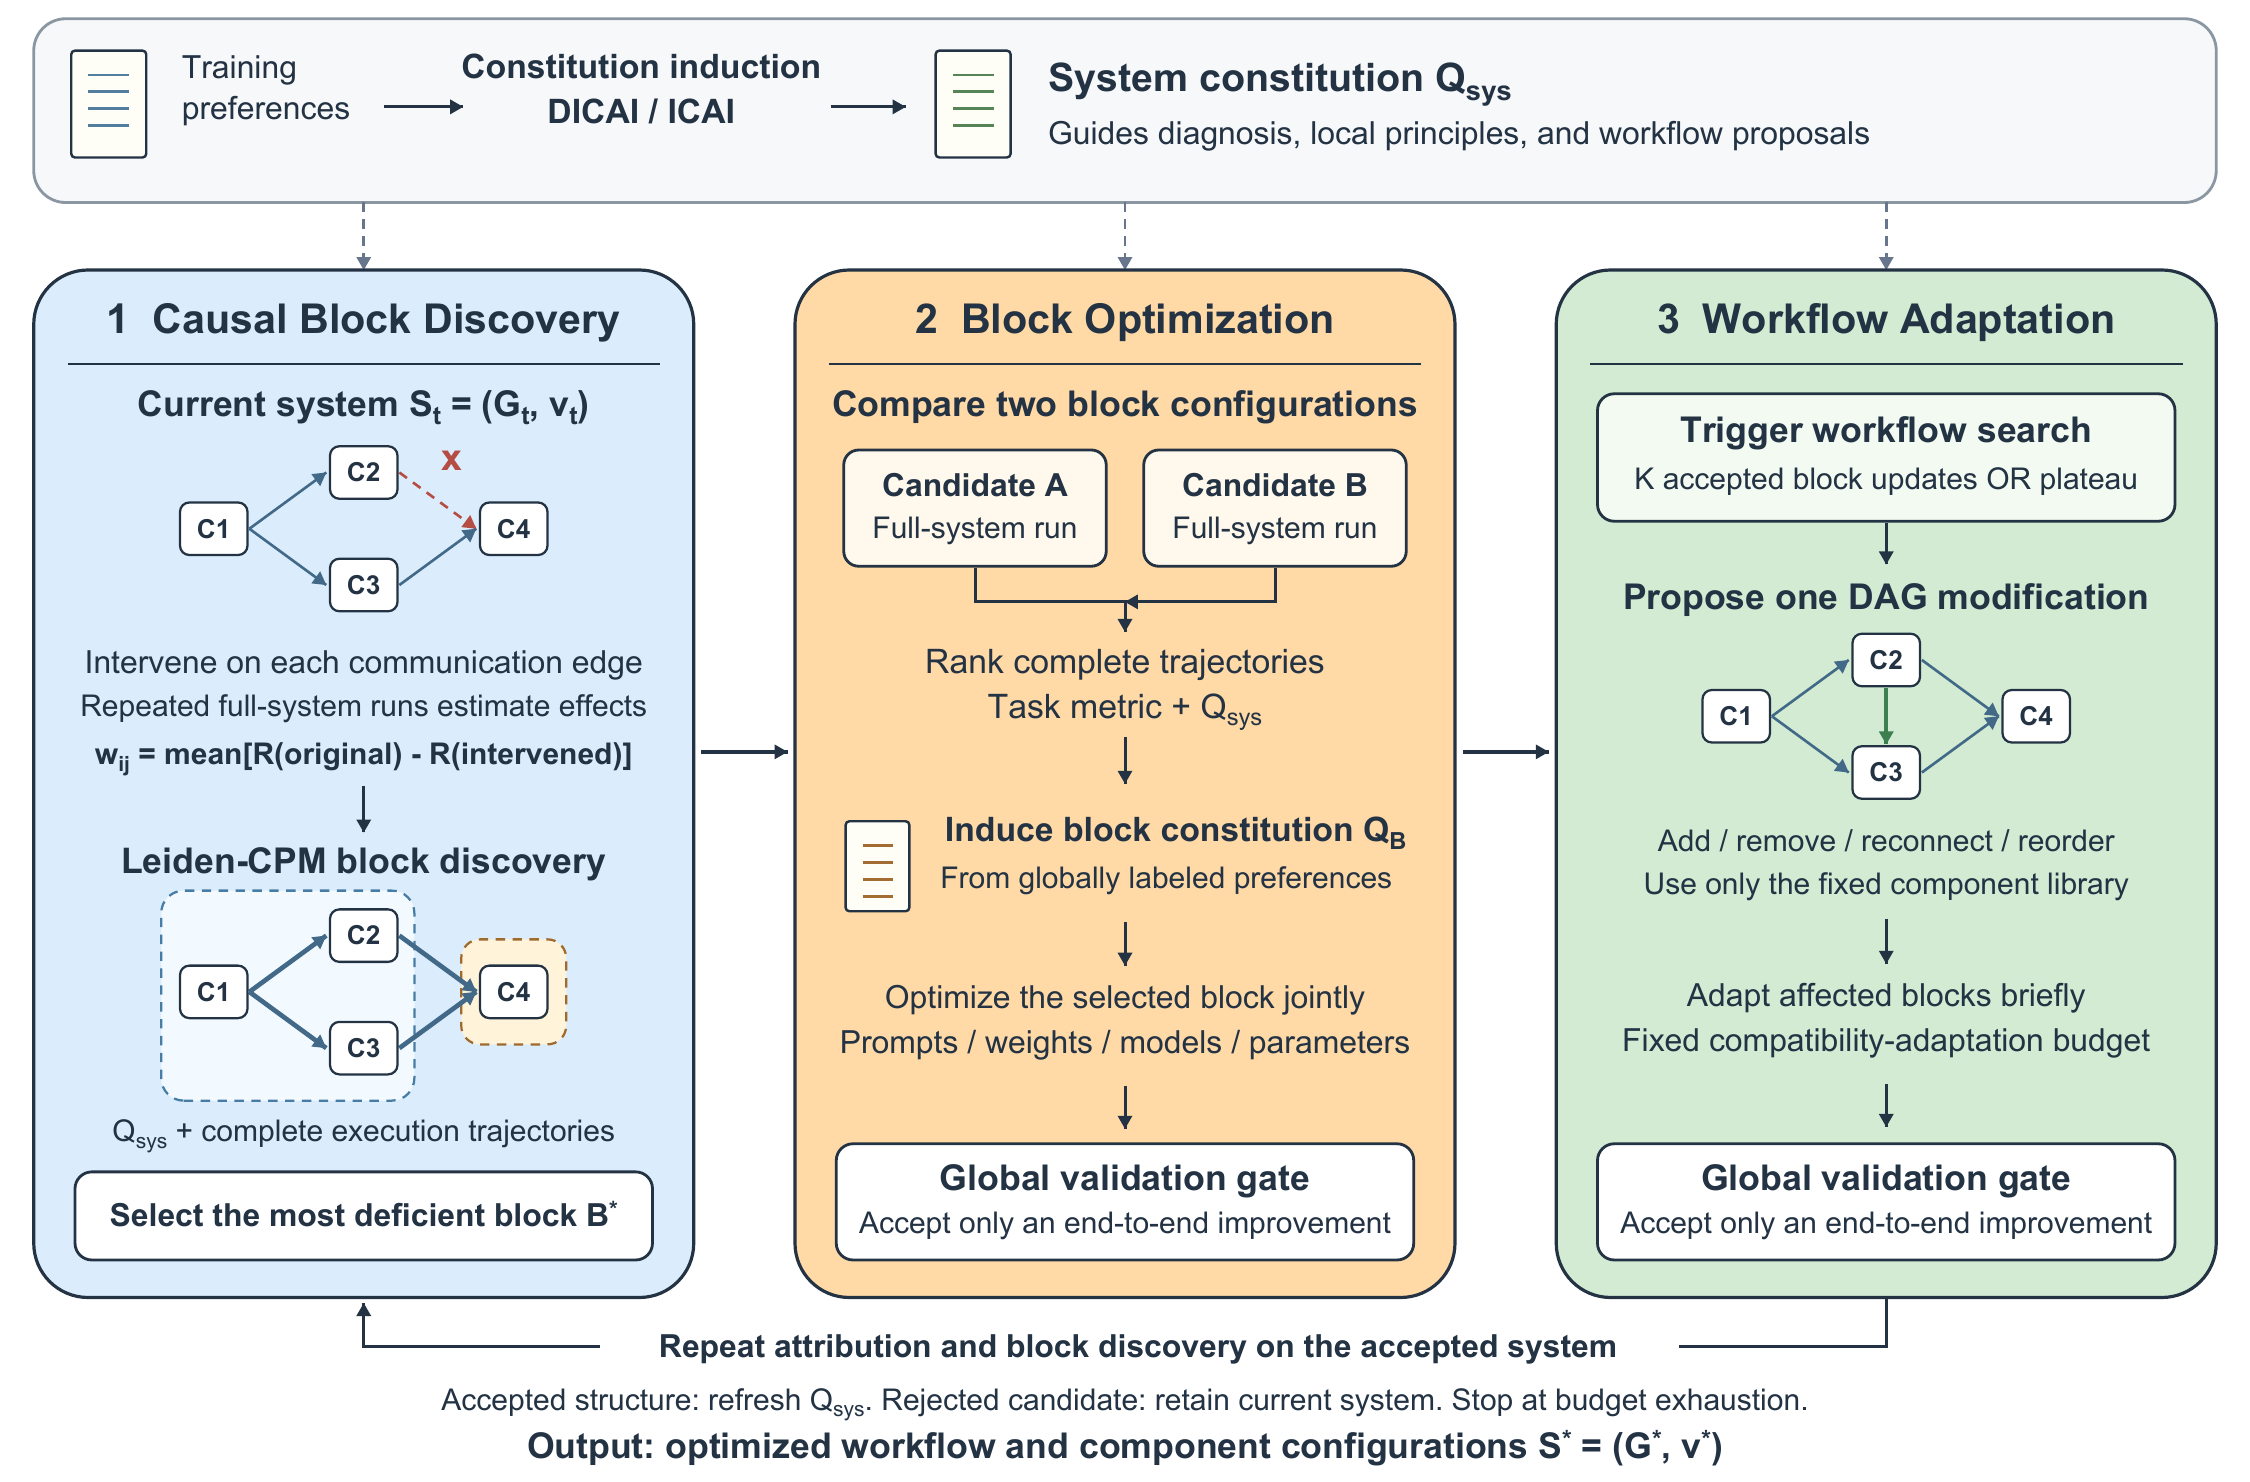
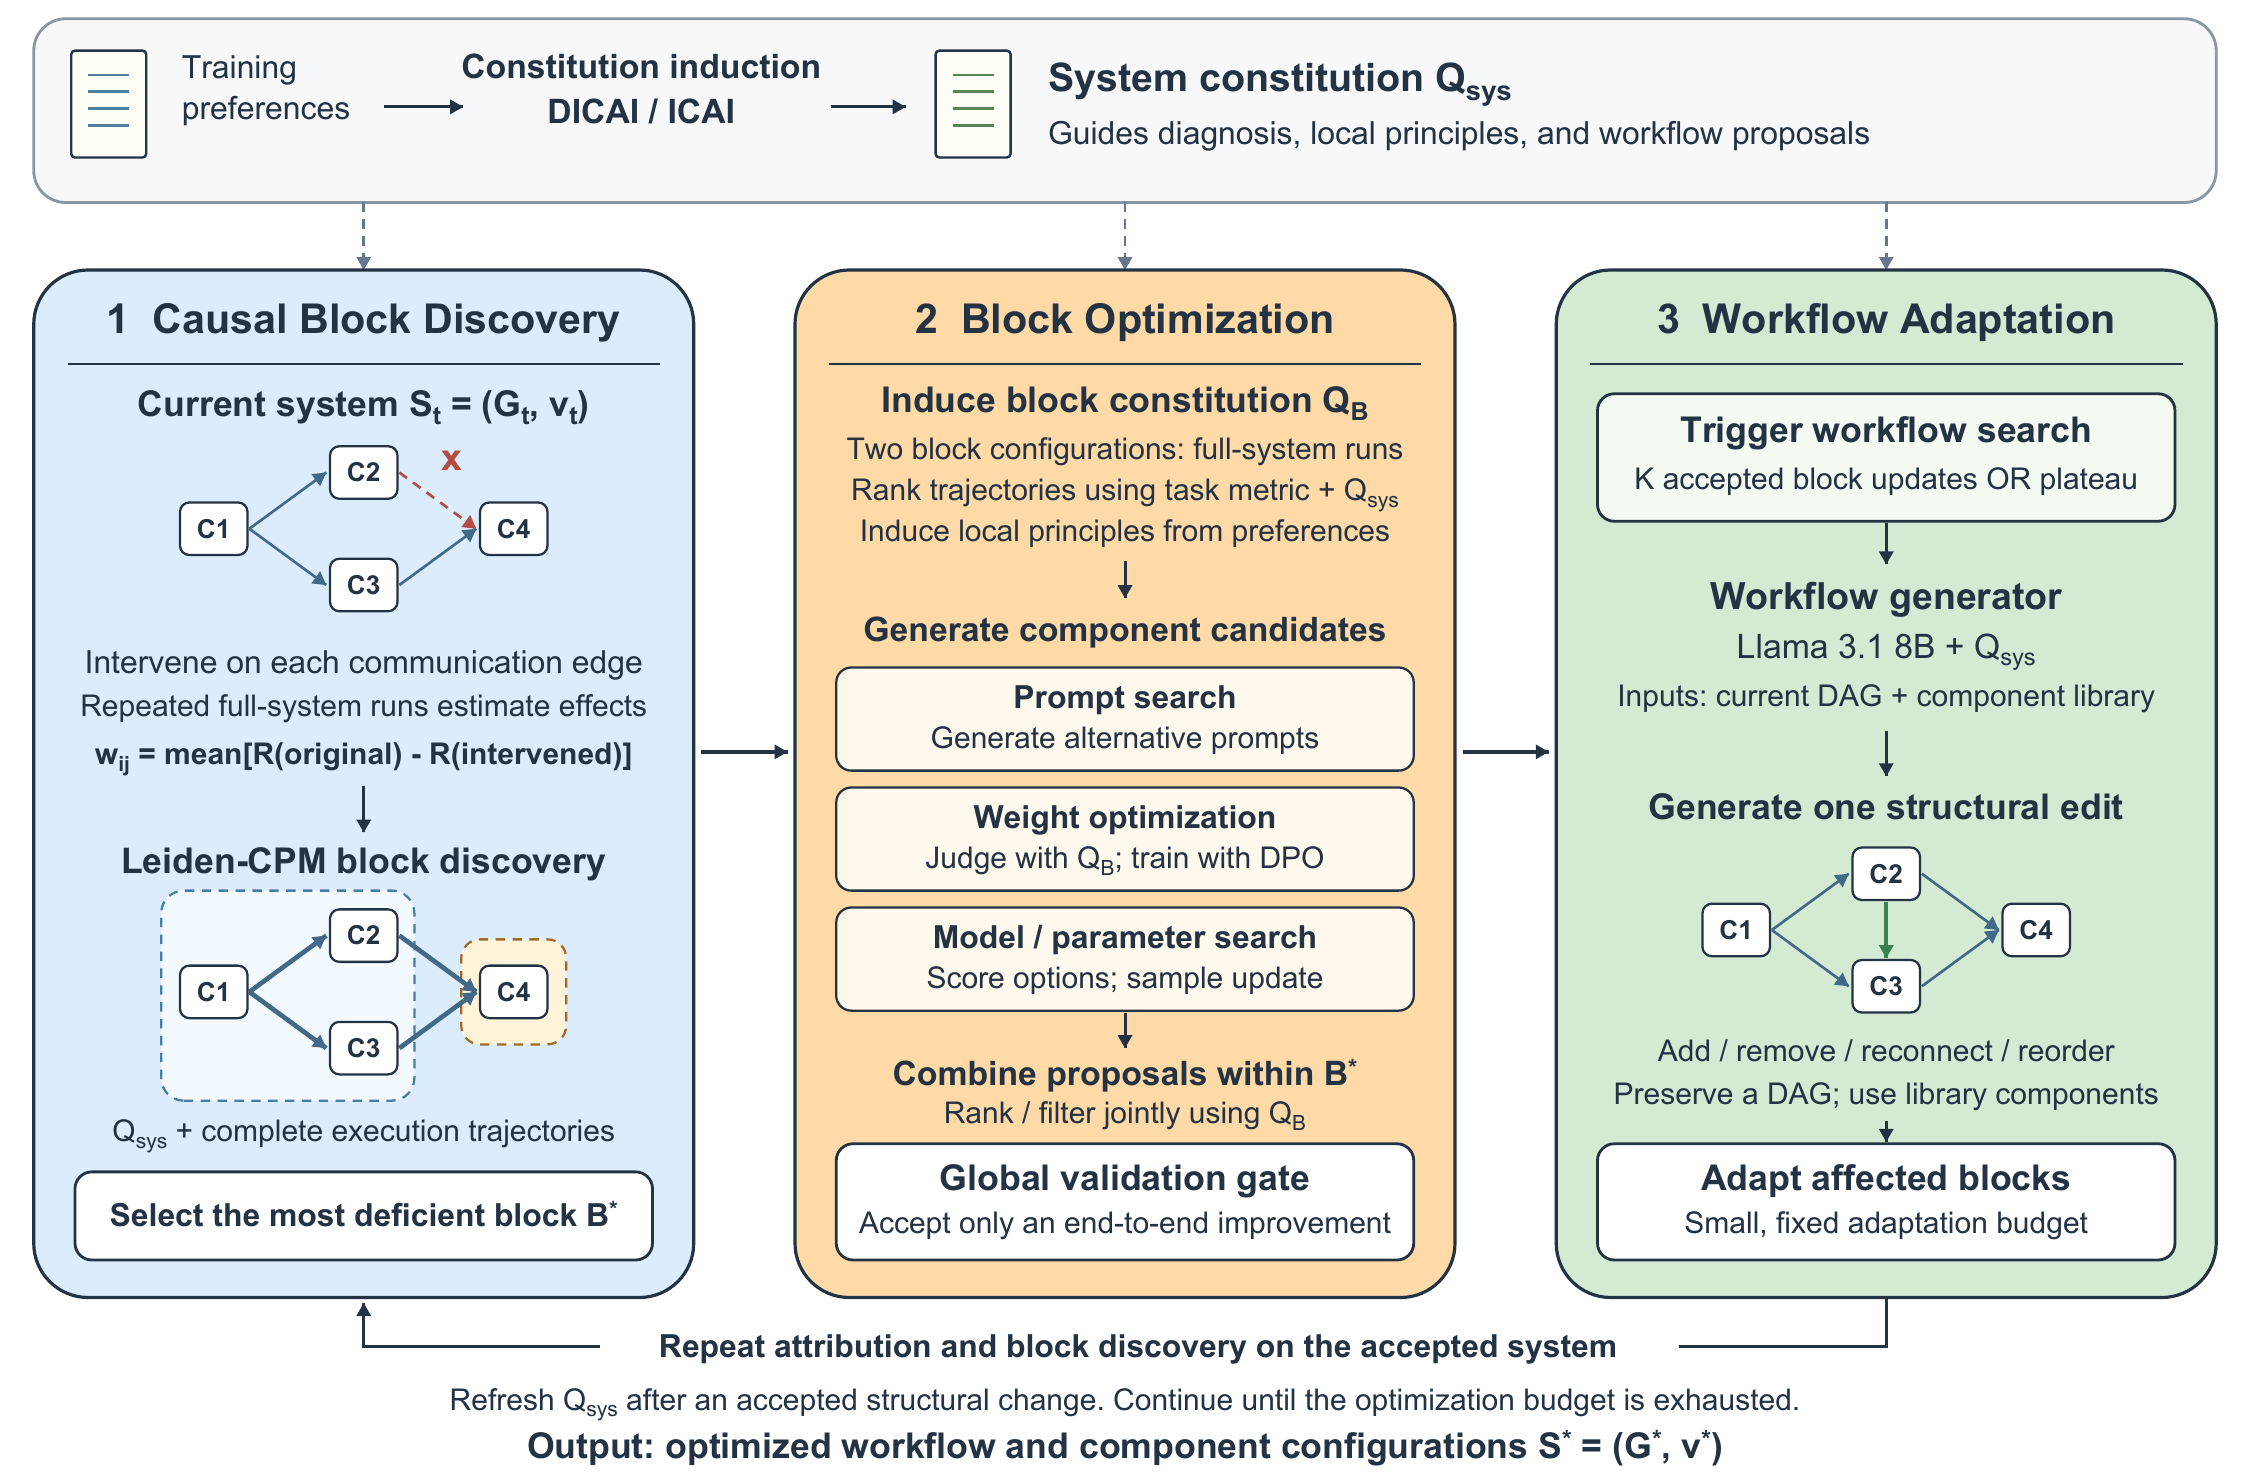
Emphasize candidate generation and omit workflow validation from diagram

diff --git a/figures/caiso/draw_overview.py b/figures/caiso/draw_overview.py
@@ -25,7 +25,7 @@ c.setAuthor('CAISO')
 c.scale(SCALE, SCALE)
 svg = [f'<svg xmlns="http://www.w3.org/2000/svg" width="{W}" height="{H}" viewBox="0 0 {W} {H}">',
        '<title>Compound AI System Optimization</title>',
-       '<desc>System constitution guides causal block discovery, block optimization, and workflow adaptation. Global validation gates both updates; optimization repeats until the budget is exhausted.</desc>']
+       '<desc>System constitution guides causal block discovery, component-specific candidate generation and joint block optimization, and single-edit workflow generation with compatibility adaptation.</desc>']
 
 def rect(x,y,w,h,fill='white',stroke=INK,r=10,lw=1.5,dash=False):
     c.setFillColor(fill); c.setStrokeColor(stroke); c.setLineWidth(lw)
@@ -122,41 +122,44 @@ text(194,609,'Q_sys + complete execution trajectories',16)
 rect(40,625,308,47,'#FFFFFF',INK,9)
 text(194,654,'Select the most deficient block B*',17,True)
 
-# Panel 2: locally attached labels from global outcomes, local principles, gate.
-text(600,222,'Compare two block configurations',19,True)
-for xx,label in [(450,'Candidate A'),(610,'Candidate B')]:
-    rect(xx,240,140,62,'#FFF8EC',INK,8)
-    text(xx+70,265,label,17,True)
-    text(xx+70,287,'Full-system run',16)
-arrow([(520,303),(520,321),(600,321),(600,337)])
-arrow([(680,303),(680,321),(600,321)])
-lines(600,359,['Rank complete trajectories','Task metric + Q_sys'],18,24)
-arrow([(600,393),(600,418)])
-document(451,438,None,accent='#A36C32',w=34,h=48)
-text(627,449,'Induce block constitution Q_B',18,True)
-text(622,474,'From globally labeled preferences',16)
-arrow([(600,492),(600,515)])
-lines(600,538,['Optimize the selected block jointly','Prompts / weights / models / parameters'],17,24,bold=False)
-arrow([(600,579),(600,602)])
+# Panel 2: global preference induction, then explicit candidate generation.
+text(600,220,'Induce block constitution Q_B',19,True)
+lines(600,245,['Two block configurations: full-system runs',
+               'Rank trajectories using task metric + Q_sys',
+               'Induce local principles from preferences'],16,22)
+arrow([(600,299),(600,319)])
+text(600,342,'Generate component candidates',18,True)
+rows=[('Prompt search','Generate alternative prompts'),
+      ('Weight optimization','Judge with Q_B; train with DPO'),
+      ('Model / parameter search','Score options; sample update')]
+for yy,(title,detail) in zip((356,420,484),rows):
+    rect(446,yy,308,55,'#FFF8EC',INK,8,1.2)
+    text(600,yy+22,title,17,True)
+    text(600,yy+43,detail,16)
+arrow([(600,540),(600,559)])
+text(600,579,'Combine proposals within B*',18,True)
+text(600,599,'Rank / filter jointly using Q_B',16)
 rect(446,610,308,62,'#FFFFFF',INK,9)
 text(600,635,'Global validation gate',19,True)
 text(600,658,'Accept only an end-to-end improvement',16)
 
-# Panel 3: conditional topology search, adaptation, acceptance and refresh.
+# Panel 3: emphasize generator inputs and edits; workflow validation is omitted.
 rect(852,210,308,68,'#F3FAF1',INK,9)
 text(1006,236,'Trigger workflow search',19,True)
 text(1006,261,'K accepted block updates OR plateau',16)
 arrow([(1006,279),(1006,301)])
-text(1006,325,'Propose one DAG modification',19,True)
-graph(926,352,'modified')
-text(1006,454,'Add / remove / reconnect / reorder',16)
-text(1006,477,'Use only the fixed component library',16)
-arrow([(1006,490),(1006,514)])
-lines(1006,537,['Adapt affected blocks briefly','Fixed compatibility-adaptation budget'],17,24)
-arrow([(1006,578),(1006,601)])
+text(1006,325,'Workflow generator',20,True)
+text(1006,351,'Llama 3.1 8B + Q_sys',18)
+text(1006,377,'Inputs: current DAG + component library',16)
+arrow([(1006,390),(1006,414)])
+text(1006,437,'Generate one structural edit',19,True)
+graph(926,466,'modified')
+text(1006,566,'Add / remove / reconnect / reorder',16)
+text(1006,589,'Preserve a DAG; use library components',16)
+arrow([(1006,598),(1006,609)])
 rect(852,610,308,62,'#FFFFFF',INK,9)
-text(1006,635,'Global validation gate',19,True)
-text(1006,658,'Accept only an end-to-end improvement',16)
+text(1006,635,'Adapt affected blocks',19,True)
+text(1006,658,'Small, fixed adaptation budget',16)
 
 # Stage-to-stage flow; the panels are architectural stages, not graph nodes.
 arrow([(374,401),(420,401)],INK,2)
@@ -166,7 +169,7 @@ arrow([(780,401),(826,401)],INK,2)
 arrow([(1006,692),(1006,718),(194,718),(194,695)],INK,1.8)
 rect(320,701,575,33,'white','white',0,0)
 text(607,724,'Repeat attribution and block discovery on the accepted system',17,True)
-text(600,752,'Accepted structure: refresh Q_sys. Rejected candidate: retain current system. Stop at budget exhaustion.',16)
+text(600,752,'Refresh Q_sys after an accepted structural change. Continue until the optimization budget is exhausted.',16)
 text(600,778,'Output: optimized workflow and component configurations S* = (G*, v*)',19,True)
 
 svg.append('</svg>')

diff --git a/figures/caiso/figure.tex b/figures/caiso/figure.tex
@@ -9,11 +9,15 @@
   the current workflow, and constitution-guided trajectory diagnosis selects
   a deficient block.
   (2) Full-system comparisons of block configurations provide preferences for
-  a local constitution, which guides joint block optimization.
+  a local constitution. Component-specific optimizers generate alternative
+  prompts, preference-trained weights, or sampled model and parameter
+  configurations. These proposals are combined within the selected block,
+  ranked or filtered using its constitution, and accepted only when they
+  improve end-to-end performance.
   (3) After $K$ accepted block updates or a performance plateau, a workflow
-  generator proposes one structural modification and briefly adapts affected
-  blocks. Both block and workflow updates require an end-to-end validation
-  improvement. Optimization repeats on the accepted system until the budget
+  generator uses the current DAG, fixed component library, and system
+  constitution to propose one structural modification, followed by brief
+  adaptation of affected blocks. Optimization repeats until the budget
   is exhausted; an accepted structural change also refreshes the system
   constitution. Graphs and partitions are illustrative.}
   \label{fig:caiso-overview}

diff --git a/figures/caiso/README.md b/figures/caiso/README.md
@@ -41,10 +41,18 @@ discussing constitution induction.
   diagram follows the latter, more specific rule. The paper should reconcile
   that wording.
 
-To keep the overview readable, details such as the LLM initializations,
-per-optimizer algorithms, sampling budgets, and batch aggregation belong in
-the method text. The diagram preserves the global acceptance rules, rather
-than suggesting that better local scores alone justify an update.
+The figure emphasizes candidate generation: alternative prompts from prompt
+search, weights trained using constitution-labeled preferences and DPO, and
+sampled model or parameter updates. Component proposals are combined within
+the selected block and ranked or filtered jointly using its constitution.
+The workflow generator uses the current DAG, the system constitution, and the
+fixed component library to propose one structural edit.
+
+The workflow validation stage is omitted from the visualization at the user's
+request. This is a presentation change; the source proposal still evaluates
+workflow candidates globally before acceptance. The block validation gate
+remains visible. Detailed sampling budgets and batch aggregation belong in
+the method text.
 
 ## Rebuild
 
